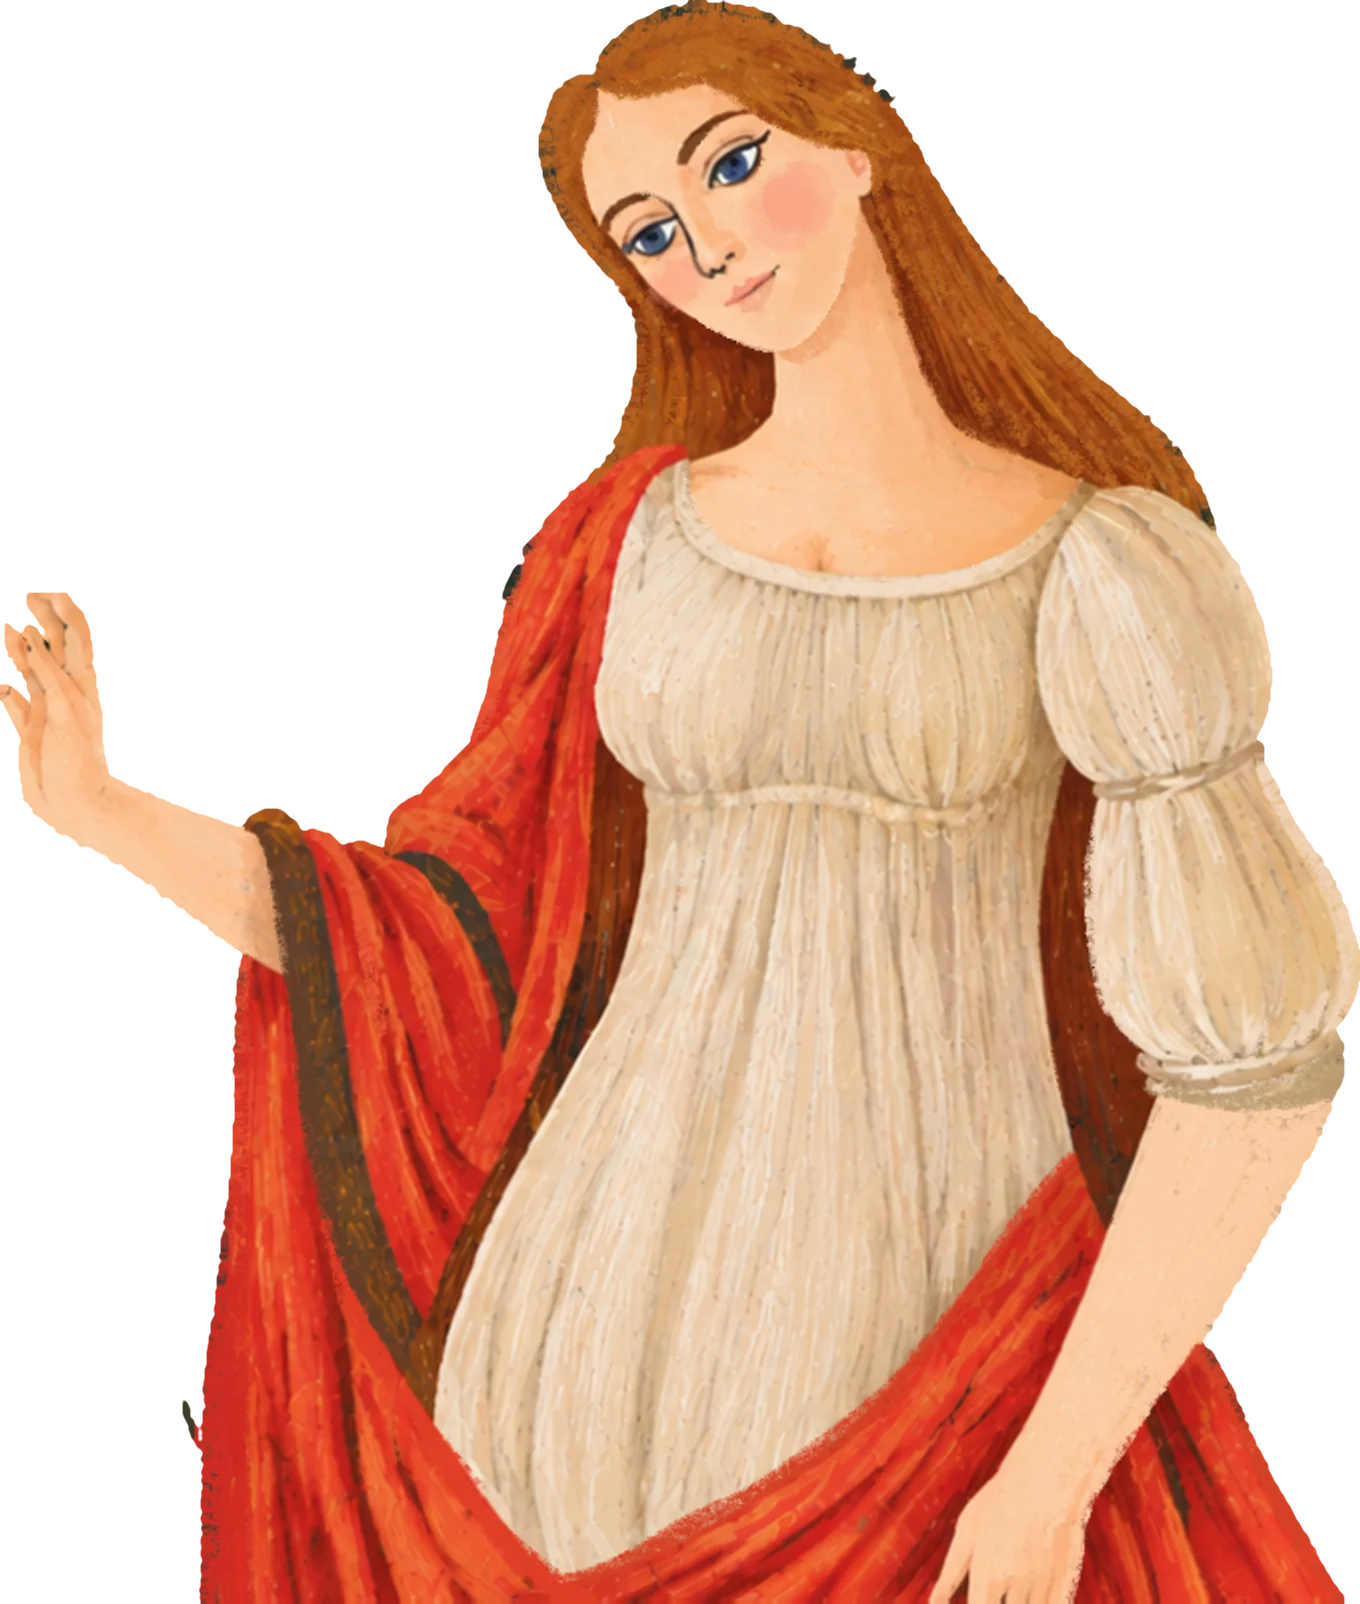
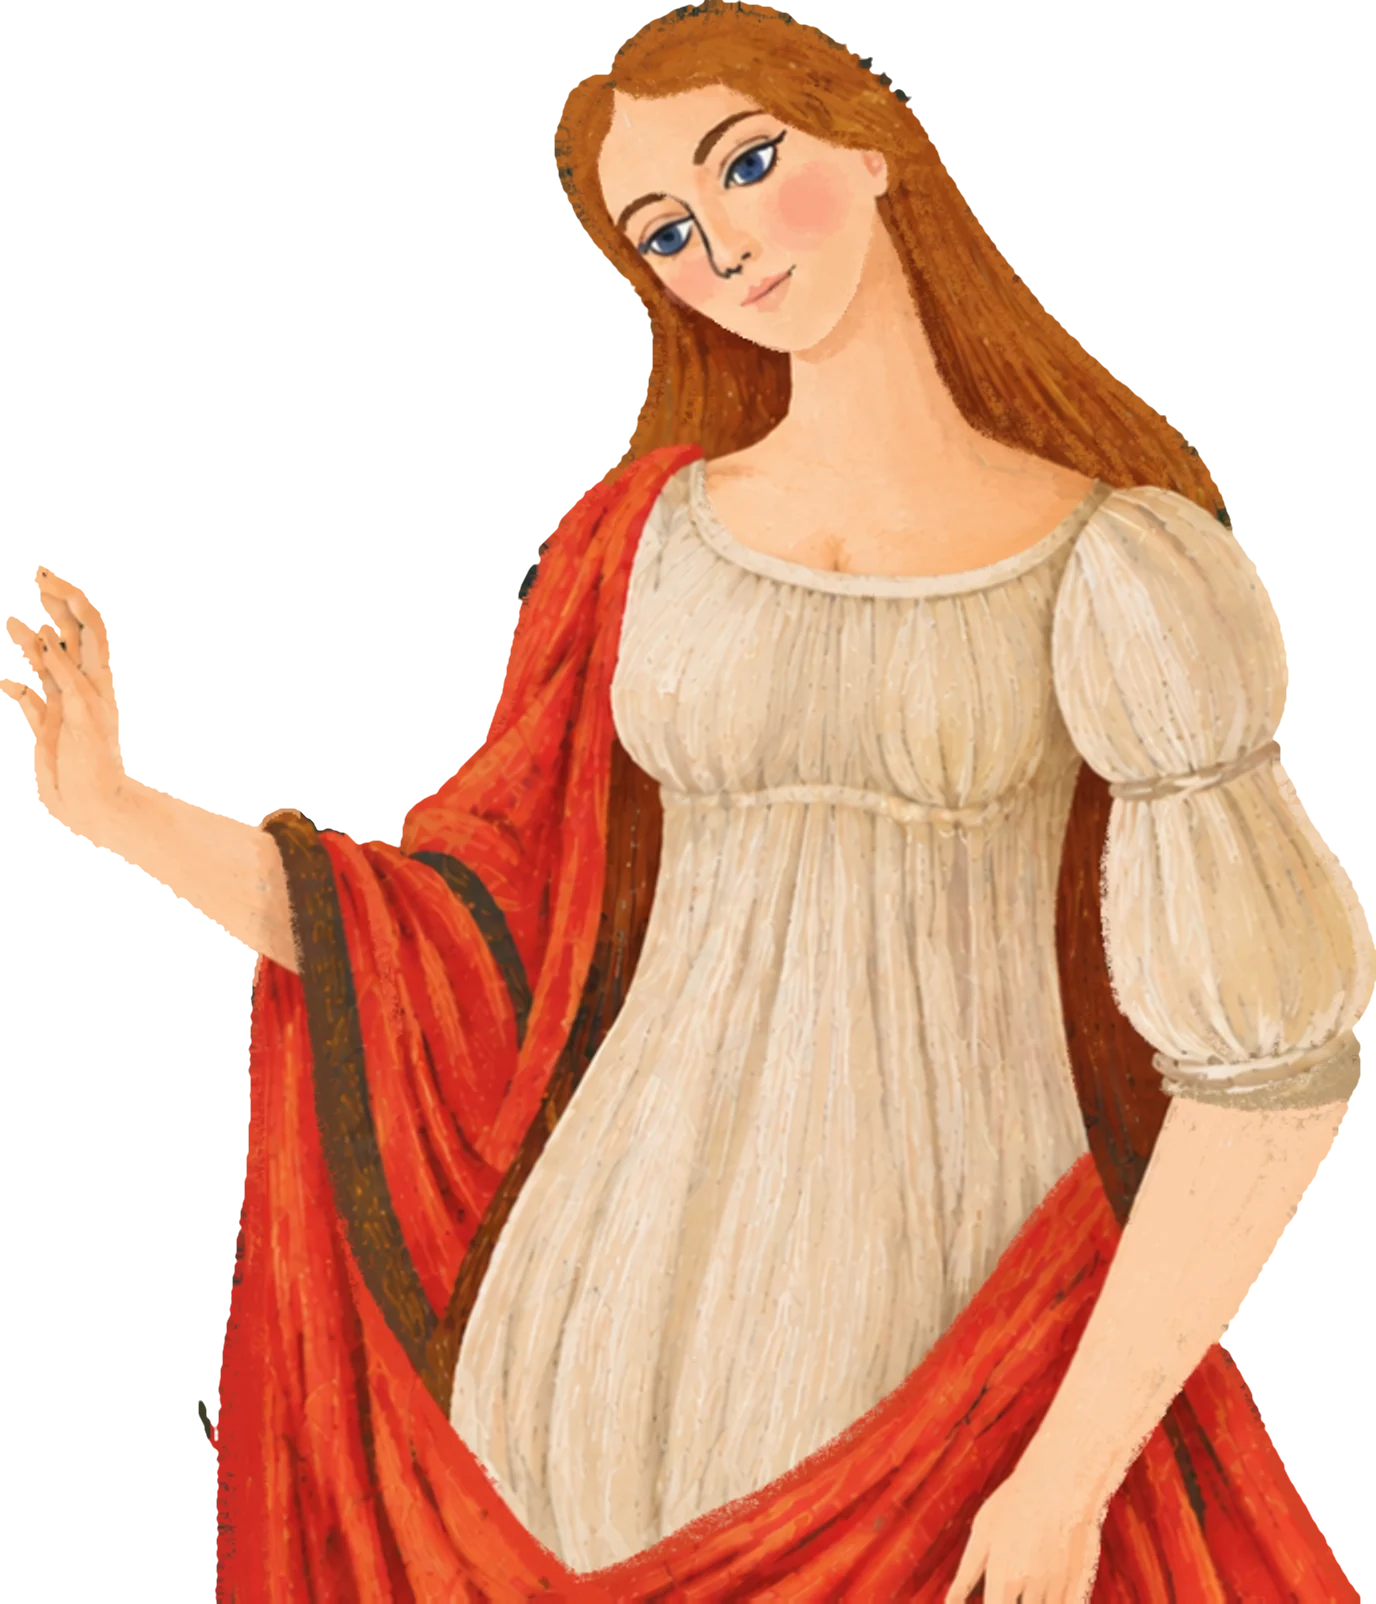
Her fingers as she painted them, and the coins leave her hand cleanly
Vardan, on a crop of her raised hand: «improve hand fingers».

The cut-out had lost her fingertips. The opening that drops the brown
branches from the colour mask drops anything narrower than 19 of her
pixels, and her fingertips taper below that: the top finger ended in a
flat cut and the two fingers on the left lost their tips. The figure's
edge blur then closed the narrow gaps between her fingers, so the hand
read as a mitten. Around the hand the ground is dark leaves and no branch
touches her, so there the plain colour mask is used: the piece of it
connected to her palm gives back 310 pixels of fingertip, and the hand's
edge is drawn with a finer blur (cross-faded into the rest of her outline
at the box's edge, no seam). The rim's colour in the hand comes from the
nearest SKIN pixel, so the dark mark she painted inside the top fingertip
stays its own size instead of capping the tip. The cut-out is 1376 wide
now and starts at plate x 563 (FIG), and measure() keeps the title clear
of exactly that.

The orange smudge on her fingertips was a coin fading in, half seen, as
it crossed her fingers. A coin now stays unseen until its whole disc has
left her hand (the asset script prints where: COIN_CLEAR, p 0.065) and
fades in just above her fingertips. Counted per frame for 6 s at five
windows: 0 frames with a visible coin over her hand (about 300 on the
build before this).

Production build of this tree 35/35; window sweep, finger check and site
walk clean.

diff --git a/components/CartPlate.tsx b/components/CartPlate.tsx
@@ -74,10 +74,22 @@ const HAND_A = [602, 452];
 const HAND_B = [1212, 948];
 /** Where the cut-out figure sits in the plate, and how wide — the cut-out's
  *  bbox through the same crop arithmetic (the asset script prints it). The
- *  file is 1360×1604, twice her own pixels, so the browser only ever scales
+ *  file is 1376×1604, twice her own pixels, so the browser only ever scales
  *  it down. Her crown is at y 9: her file has no sky above her head, which
- *  is why `measure` below anchors the plate to the top of the window. */
-const FIG = { x: 572, y: 9, w: 841 };
+ *  is why `measure` below anchors the plate to the top of the window. x is
+ *  563 since 2026-10-14: her fingertips were given back to the cut-out (the
+ *  asset script, HER RAISED HAND), and the leftmost one is the bbox's edge.
+ *  `measure` keeps the title's end clear of exactly this x. */
+const FIG = { x: 563, y: 9, w: 851 };
+/** THE COINS APPEAR ONCE THEY HAVE CLEARED HER FINGERS (2026-10-14 — Vardan,
+ *  on a crop of her hand: «improve hand fingers»). A coin used to fade in
+ *  from the middle of her palm, so for the first stretch of the throw half
+ *  a coin's gold lay over her fingers — an orange smudge on the fingertips.
+ *  Now it is unseen until its whole disc, at its largest, has left her hand
+ *  (the asset script prints that point of the throw, COIN_CLEAR) and fades
+ *  in over the next stretch, just above her fingertips: tossed from the
+ *  hand, not painted on it. */
+const COIN_IN = [0.065, 0.1];
 /** THE FAR PLATE, in plate pixels (the asset script prints it): her WHOLE
  *  painting at the plate's own scale — 189px of it lie left of the plate
  *  window and 651 right of it. Where she painted no more it is mirrored:
@@ -93,7 +105,7 @@ const REAL_L = 189;
 const FACE_R = 1100;
 /** the lowest skin of her raised forearm, plate y — what should stay above
  *  the cart's panel; see `measure`. Read off the cut-out file (its row 968
- *  → 9 + 968·841/1360 = 607.6). It was 580, where the forearm's outline
+ *  → 9 + 968·851/1376 = 607.7). It was 580, where the forearm's outline
  *  meets the cloak, and the last of the forearm went under the panel. */
 const ARM_Y = 608;
 /** The throw's control point, in plate pixels — ABOVE the top of the plate on
@@ -525,9 +537,10 @@ export default function CartPlate() {
         const near = 1 + Math.sin(Math.PI * p) * 0.22;
         // a handful of coins, not a machine: each its own size and lean
         const own = 0.78 + ((i * 37) % 11) / 22;
-        // leaves the palm and arrives in the other hand rather than popping
-        // into being mid-air
-        const fade = Math.min(1, Math.sin(Math.PI * p) * 3.2);
+        // appears above her fingers (COIN_IN) and fades as it drops toward
+        // the lowered hand, rather than popping into being mid-air
+        const rise = Math.min(1, Math.max(0, (p - COIN_IN[0]) / (COIN_IN[1] - COIN_IN[0])));
+        const fade = p < 0.5 ? rise * rise * (3 - 2 * rise) : Math.min(1, Math.sin(Math.PI * p) * 3.2);
         const c = coins[i];
         c.style.transform = `translate3d(${x}px, ${y}px, 0) rotateZ(${((i * 23) % 40) - 20}deg) rotateX(${spin}deg) scale(${near * own})`;
         c.style.opacity = String(fade);
@@ -621,12 +634,12 @@ export default function CartPlate() {
           </svg>
 
           {/* her figure, cut out of her own picture (change 4.pdf p18), so
-              the title passes behind her; 1360×1604 is the file's own size */}
+              the title passes behind her; 1376×1604 is the file's own size */}
           <img
             className="ap-plate__fig"
             src="/cart/figure.webp"
             alt=""
-            width={1360}
+            width={1376}
             height={1604}
             style={{ left: FIG.x, top: FIG.y, width: FIG.w }}
             decoding="async"

diff --git a/app/shop.css b/app/shop.css
@@ -666,7 +666,8 @@
      SELECTION was behind her mantle — the layering trick was eating the word
      rather than framing it. 5.2vw ends the line at ~499, just clear. Her own
      cut-out (2026-10-12) was cropped so its fingertips begin at plate x≈568
-     — screen 511 at 1440 — so the same size still clears her. */
+     — screen 511 at 1440 — so the same size still clears her; with her
+     fingertips given back (2026-10-14) they begin at 563, screen 507. */
   font-size: clamp(2.4rem, 5.2vw, 5.4rem);
   line-height: 0.9;
   letter-spacing: -0.02em;
